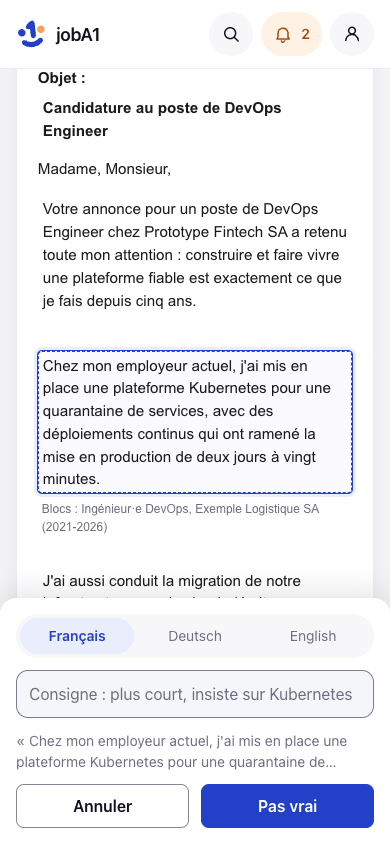
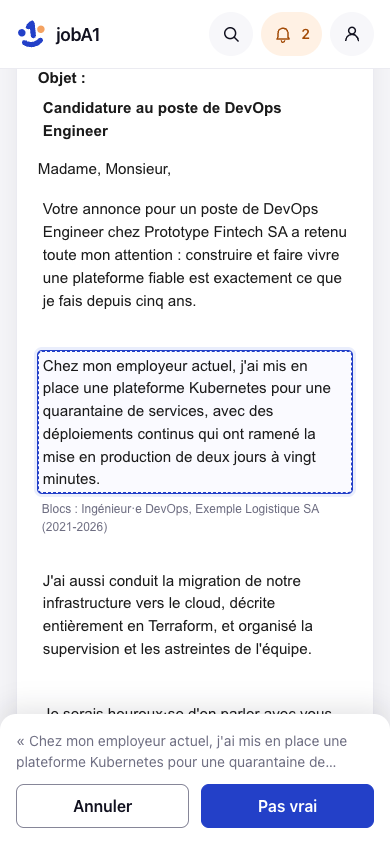
fix(pas-vrai): une tâche à la fois dans le panneau, aucun paragraphe vide

Changed region(s): [[0.0615, 0.7085, 0.8923, 0.8626], [0.9538, 0.8318, 0.9846, 0.8626], [0.0308, 0.8318, 0.0615, 0.8626]]

diff --git a/frontend/src/views/PreparationView.test.ts b/frontend/src/views/PreparationView.test.ts
@@ -384,7 +384,9 @@ describe("« Pas vrai » (30.10.2026)", () => {
     await wrapper.find("[data-test=false-claim]").trigger("click");
     await wrapper.find("[data-test=false-claim-confirm]").trigger("click");
     await flushPromises();
+    // Aucun paragraphe vide ne reste à sa place.
     expect(wrapper.findAll("[data-test=paragraph]")).toHaveLength(1);
+    expect(wrapper.findAll(".letter-paragraph")).toHaveLength(1);
     await useUndo().undo();
     await flushPromises();
     const texts = wrapper.findAll("[data-test=paragraph]").map((p) => (p.element as HTMLTextAreaElement).value);
@@ -427,6 +429,9 @@ describe("« Pas vrai » (30.10.2026)", () => {
     const bar = wrapper.find("[data-test=action-bar]");
     expect(bar.find("[data-test=false-claim-chosen]").text()).toBe("« J'administre un cluster K3s. »");
     expect(bar.find("[data-test=write]").exists()).toBe(false);
+    // Une tâche à la fois : ni la langue ni la consigne pendant le choix.
+    expect(bar.find(".segmented").exists()).toBe(false);
+    expect(bar.find("[data-test=instruction]").exists()).toBe(false);
     await bar.find("[data-test=false-claim-cancel]").trigger("click");
     expect(wrapper.find("[data-test=action-bar] [data-test=write]").exists()).toBe(true);
     vi.unstubAllGlobals();

diff --git a/frontend/src/views/PreparationView.vue b/frontend/src/views/PreparationView.vue
@@ -982,14 +982,17 @@ onMounted(() => void load());
           </div>
         </section>
         <ActionBar v-if="narrow">
+          <!-- Une phrase choisie : le panneau ne montre que la citation et « Annuler » / « Pas vrai » ;
+               la langue et la consigne reviennent ensuite (une tâche à la fois). -->
           <SegmentedControl
+            v-if="!claim"
             v-model="shownLanguage"
             :options="LANGUAGE_OPTIONS"
             label="Langue de la lettre"
             full
           />
           <input
-            v-if="selected"
+            v-if="selected && !claim"
             v-model="instruction"
             class="prep-instruction-line"
             maxlength="500"
@@ -999,7 +1002,7 @@ onMounted(() => void load());
             @input="instructionNote = ''"
           >
           <p
-            v-if="instructionNote"
+            v-if="instructionNote && !claim"
             class="action-bar-note"
             aria-live="polite"
             data-test="instruction-note"
